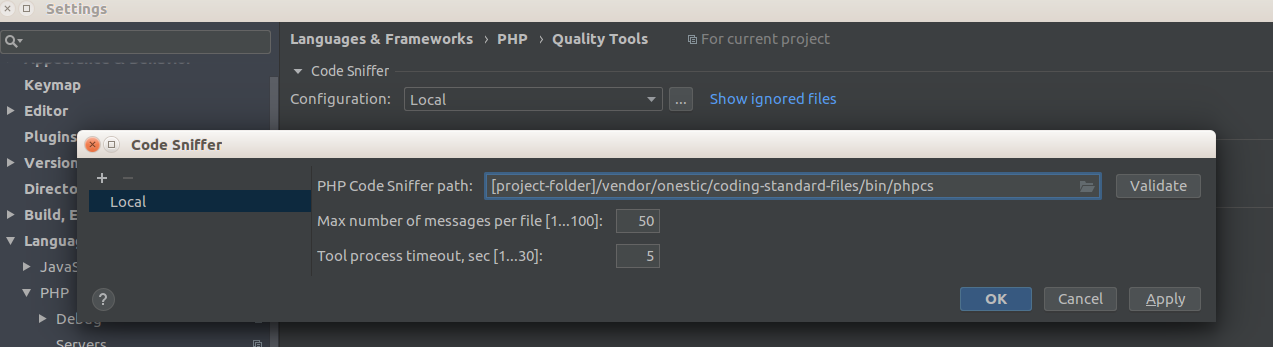
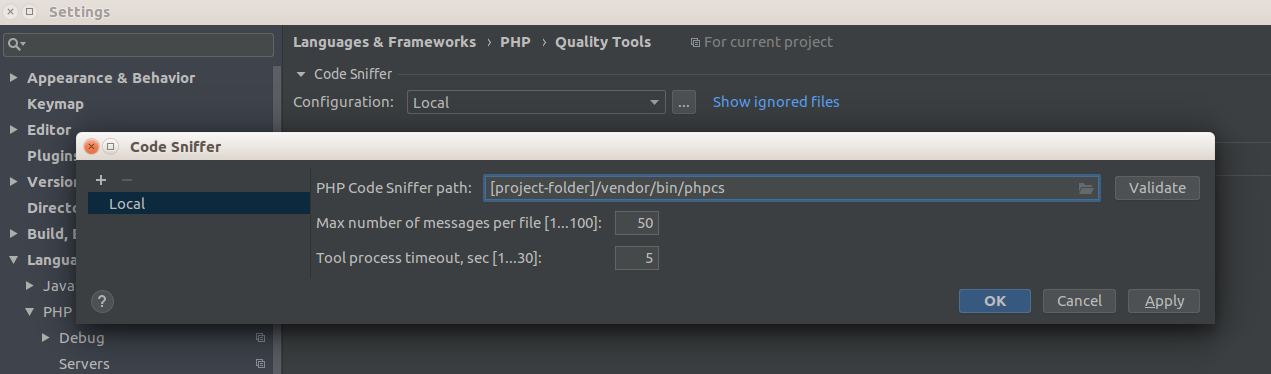
Update readme file

diff --git a/README.md b/README.md
@@ -5,33 +5,59 @@ Please check [Onestic Coding Standard](doc/onestic-coding-standards.md) document
 
 For applying most of defined format rules in PhpStorm, load _PhpStorm/PhpStorm-php-code-style.xml_ from _"File > Default Settings... / Settings..."_ and _"Editor > Code Style > Import Scheme > Intellij IDEA code style XML"_
 
-This repositorty has Code Sniffer and Mess Detector recompiled phar files in bin/ folder in order to check phtml file in PhpStorm and Grumphp.
+Note this repository has Code Sniffer and Mess Detector recompiled phar files in bin/ folder in order to check phtml files in PhpStorm and Grumphp.
 
 ## Index
 
-* [CS & MD in PhpStorm](#code-sniffer--mess-detector-configurations-in-phpstorm)
+* [Update composer.json in Magento projects](#update-composerjson-in-magento-projects)
 
-* [ESLint & JSHint](#eslint--jshint)
+* [CS & MD in PhpStorm](#code-sniffer--mess-detector-configurations-in-phpstorm)
 
 * [Grumphp](#grumphp)
 
-* [Update composer.json in Magento projects](#update-composerjson-in-magento-projects)
+* [Application cases](#application-cases-for-coding-standards)
+
+* [ESLint & JSHint](#eslint--jshint)
 
 * [Roadmap](doc/roadmap.md)
 
-## Code Sniffer & Mess Detector configurations in PhpStorm ##
+## Update composer.json in Magento projects ##
 
-First you have to enable CS and MD in project configuration in _"Languages & Frameworks > Php > Quality tools"_ and set excutable files from _[project-folder]/vendor/onestic/coding-standard-files/bin/_ folder.
+This Coding Standards currently apply on Magento 1 projects, so they have been loaded in composer.json project: 
+
+```json
+  "repositories": [
+    {
+      "type": "vcs",
+      "url": "https://github.com/onestic/coding-standard.git"
+    },
+    {
+      "type": "vcs",
+      "url": "https://github.com/onestic/coding-standard-files.git"
+    }
+  ],
+  "require-dev": {
+    "onestic/coding-standard": "dev-master",
+    "onestic/coding-standard-files": "dev-master"
+  },
+```
+
+## Code Sniffer (CS) & Mess Detector (MD) configurations in PhpStorm ##
+
+First you have to enable CS and MD in project configuration in _"Languages & Frameworks > Php > Quality tools"_ and set executable files from _[project-folder]/vendor/bin/_ folder.
 
 ![Code Sniffer config](PhpStorm/PhpStorm-settings-qt-cs.png)
 
 ![Mess Detector config](PhpStorm/PhpStorm-settings-qt-md.png)
 
+In old PhpStorm versions, CS and MD configurations are managed from _"Php > Code Sniffer"_ and _"Php > Mess Detector"_ options.
+
+
 To set both sniffers check inspector configuration in _"Settings > Editor > Inspections > Php"_ and check this options:
 
 1 - In Code Sniffer config, _"Coding Standard"_ option must be set to _"Custom"_ and in file selector, ruleset.xml file path must be set to _[project-folder]/vendor/onestic/coding-standard/Ecg/ruleset.xml_
 
-As in new option _"Check files with extension"_ there's no option to check phtml files,  __all file extensions must be unchecked__ in order to let custom phpcs phar file check php and phtml files.
+As in new option _"Check files with extension"_ there's no option to check phtml files,  __all file extensions must be unchecked__ in order to let custom phpcs phar file check php and phtml files (old PhpStorm versions doesn't have this extension options).
 
 ![Code Sniffer inspector config](PhpStorm/PhpStorm-inspectors-cs.png)
   
@@ -45,12 +71,54 @@ As in new option _"Check files with extension"_ there's no option to check phtml
 
 ![Mess Detector inspector config](PhpStorm/PhpStorm-inspectors-md.png)
 
-You'll need to install some php packages in your environment to run phar files and read xml files from PhpStorm:
+Maybe you'll need to install some php packages in your environment to run phar files and read xml files from PhpStorm:
 ```shell
 sudo apt-get install php7.0 php7.0-xml -y
 ```
 
+## Grumphp ##
+
+https://github.com/phpro/grumphp
+
+Grumphp is a tool for validating your code before commit it to repository.
+
+Before installing, add this config to composer.json project:
+
+```json
+  "extra": {
+    "grumphp": {
+      "config-default-path": "vendor/onestic/coding-standard-files/grumphp/grumphp.yml"
+    }
+  },
+```
+
+Then install it with ```composer require --dev phpro/grumphp```
+
+Remember: phpmd and phpcs bin files used by Grumphp will be our recompiled phar files from this repository.
+
+### Basic usage ###
+
+Sniff commits
+
+```shell
+grumphp git:init
+```
+
+Stop sniffing commits
+
+```shell
+grumphp git:deinit
+```
+
+If calling directly to _grumphp_ doesn't work, call it with:
+
+```shell
+vendor/bin/grumphp [command]
+``` 
+
 ## ESLint & JSHint ##
+
+ESLint and JSHints validation are in progress of definition, but until then, you can try our current rules: 
 
 ### Install Node.js and NPM ###
 From https://www.npmjs.com/package/eslint
@@ -72,54 +140,14 @@ npm install eslint-plugin-standard
 npm install ...
 ```
 
-## Grumphp ##
+## Application cases for coding standards ##
 
-https://github.com/phpro/grumphp
+If you're working in an old project or third party code, maybe you shouldn't apply our coding standards in order to keep consistency in code style. But whenever you can you must clean al mess code you found.
 
-Tool for validating your code before commit it to repository.
+If you're working in a new module you must use all this rules.
 
-### Basic usage ###
+If some rules doesn't fit with what you want to do or if you're missing some rules, feel free to PR.
 
-Sniff commits
+Also you can ask to your teach lead for help working with them :)   
 
-```shell
-grumphp git:init
-```
-
-Stop sniffing commits
-
-```shell
-grumphp git:deinit
-```
-
-## Update composer.json in Magento projects ##
-
-Until Onestic repositories be updated, they'll be loaded from github url.
-
-phpro/grumphp is added to check code before commit it config file is loaded as config-default-path param says.
-
-
-So add this params to composer.json:
-
-```json
-  "repositories": [
-    {
-      "type": "vcs",
-      "url": "https://github.com/onestic/coding-standard.git"
-    },
-    {
-      "type": "vcs",
-      "url": "https://github.com/onestic/coding-standard-files.git"
-    }
-  ],
-  "require-dev": {
-    "onestic/coding-standard": "dev-master",
-    "onestic/coding-standard-files": "dev-master",
-    "phpro/grumphp": "^0.14.0",    
-  },
-  "extra": {
-    "grumphp": {
-      "config-default-path": "vendor/onestic/coding-standard-files/grumphp/grumphp.yml"
-    }
-  },
-```
+And of course: __Feedback is welcome!__
